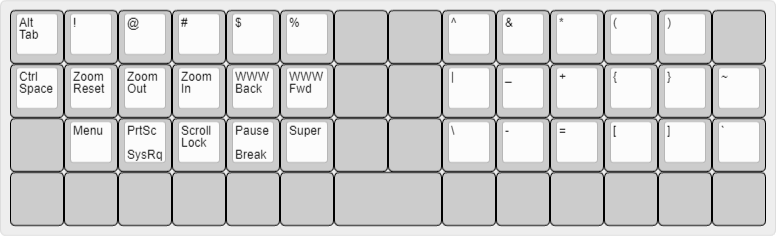
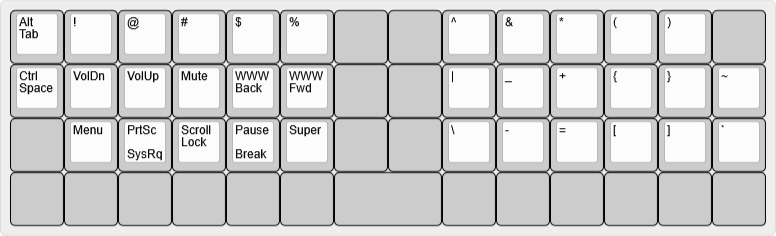
Standardize ergo/ortho volume keys

diff --git a/keyboards/lily58/keymaps/bcat/keymap.c b/keyboards/lily58/keymaps/bcat/keymap.c
@@ -21,7 +21,7 @@ const uint16_t PROGMEM keymaps[][MATRIX_ROWS][MATRIX_COLS] = {
     [LAYER_LOWER] = LAYOUT(
         _______,  _______,  _______,  _______,  _______,  _______,                      _______,  _______,  _______,  _______,  _______,  _______,
         CC_ALTT,  KC_EXLM,  KC_AT,    KC_HASH,  KC_DLR,   KC_PERC,                      KC_CIRC,  KC_AMPR,  KC_ASTR,  KC_LPRN,  KC_RPRN,  _______,
-        KY_CSPC,  KY_ZMRST, KY_ZMOUT, KY_ZMIN,  KC_WBAK,  KC_WFWD,                      KC_PIPE,  KC_UNDS,  KC_PLUS,  KC_LCBR,  KC_RCBR,  KC_TILD,
+        KY_CSPC,  KC_VOLD,  KC_VOLU,  KC_MUTE,  KC_WBAK,  KC_WFWD,                      KC_PIPE,  KC_UNDS,  KC_PLUS,  KC_LCBR,  KC_RCBR,  KC_TILD,
         _______,  KC_APP,   KC_PSCR,  KC_SCRL,  KC_PAUS,  KC_LGUI,  _______,  _______,  KC_BSLS,  KC_MINS,  KC_EQL,   KC_LBRC,  KC_RBRC,  KC_GRV,
                                       _______,  _______,  _______,  _______,  _______,  _______,  _______,  _______
     ),
@@ -34,9 +34,9 @@ const uint16_t PROGMEM keymaps[][MATRIX_ROWS][MATRIX_COLS] = {
     ),
     [LAYER_ADJUST] = LAYOUT(
         _______,  _______,  _______,  _______,  _______,  _______,                      _______,  _______,  _______,  _______,  _______,  _______,
-        _______,  _______,  KC_MPLY,  KC_VOLU,  KC_MSTP,  _______,                      EE_CLR,   QK_BOOT,  _______,  _______,  _______,  _______,
-        _______,  _______,  KC_MPRV,  KC_VOLD,  KC_MNXT,  _______,                      _______,  _______,  _______,  _______,  _______,  _______,
-        _______,  _______,  _______,  KC_MUTE,  _______,  _______,  _______,  _______,  _______,  _______,  _______,  _______,  _______,  _______,
+        _______,  _______,  _______,  _______,  _______,  _______,                      EE_CLR,   QK_BOOT,  _______,  _______,  _______,  _______,
+        _______,  _______,  _______,  _______,  _______,  _______,                      _______,  _______,  _______,  _______,  _______,  _______,
+        _______,  _______,  _______,  _______,  _______,  _______,  _______,  _______,  _______,  _______,  _______,  _______,  _______,  _______,
                                       _______,  _______,  _______,  _______,  _______,  _______,  _______,  _______
     ),
     // clang-format on

diff --git a/keyboards/eco/keymaps/bcat/keymap.c b/keyboards/eco/keymaps/bcat/keymap.c
@@ -15,7 +15,7 @@ const uint16_t PROGMEM keymaps[][MATRIX_ROWS][MATRIX_COLS] = {
     ),
     [LAYER_LOWER] = LAYOUT(
         CC_ALTT,  KC_EXLM,  KC_AT,    KC_HASH,  KC_DLR,   KC_PERC,  _______,  _______,  KC_CIRC,  KC_AMPR,  KC_ASTR,  KC_LPRN,  KC_RPRN,  _______,
-        KY_CSPC,  KY_ZMRST, KY_ZMOUT, KY_ZMIN,  KC_WBAK,  KC_WFWD,  _______,  _______,  KC_PIPE,  KC_UNDS,  KC_PLUS,  KC_LCBR,  KC_RCBR,  KC_TILD,
+        KY_CSPC,  KC_VOLD,  KC_VOLU,  KC_MUTE,  KC_WBAK,  KC_WFWD,  _______,  _______,  KC_PIPE,  KC_UNDS,  KC_PLUS,  KC_LCBR,  KC_RCBR,  KC_TILD,
         _______,  KC_APP,   KC_PSCR,  KC_SCRL,  KC_PAUS,  KC_LGUI,  _______,  _______,  KC_BSLS,  KC_MINS,  KC_EQL,   KC_LBRC,  KC_RBRC,  KC_GRV,
         _______,  _______,  _______,  _______,  _______,  _______,  _______,  _______,  _______,  _______,  _______,  _______,  _______,  _______
     ),
@@ -26,9 +26,9 @@ const uint16_t PROGMEM keymaps[][MATRIX_ROWS][MATRIX_COLS] = {
         _______,  _______,  _______,  _______,  _______,  _______,  _______,  _______,  _______,  _______,  _______,  _______,  _______,  _______
     ),
     [LAYER_ADJUST] = LAYOUT(
-        _______,  _______,  KC_MPLY,  KC_VOLU,  KC_MSTP,  _______,  _______,  _______,  EE_CLR,   QK_BOOT,  _______,  _______,  _______,  _______,
-        _______,  _______,  KC_MPRV,  KC_VOLD,  KC_MNXT,  _______,  _______,  _______,  RGB_RMOD, RGB_VAD,  RGB_VAI,  RGB_MOD,  RGB_SPI,  _______,
-        _______,  _______,  _______,  KC_MUTE,  _______,  _______,  _______,  _______,  RGB_HUI,  RGB_SAD,  RGB_SAI,  RGB_HUD,  RGB_SPD,  _______,
+        _______,  _______,  _______,  _______,  _______,  _______,  _______,  _______,  EE_CLR,   QK_BOOT,  _______,  _______,  _______,  _______,
+        _______,  _______,  _______,  _______,  _______,  _______,  _______,  _______,  RGB_RMOD, RGB_VAD,  RGB_VAI,  RGB_MOD,  RGB_SPI,  _______,
+        _______,  _______,  _______,  _______,  _______,  _______,  _______,  _______,  RGB_HUI,  RGB_SAD,  RGB_SAI,  RGB_HUD,  RGB_SPD,  _______,
         _______,  _______,  _______,  _______,  _______,  _______,  _______,  _______,  RGB_TOG,  _______,  _______,  _______,  _______,  _______
     ),
     // clang-format on

diff --git a/layouts/split_3x6_3/bcat/keymap.c b/layouts/split_3x6_3/bcat/keymap.c
@@ -19,7 +19,7 @@ const uint16_t PROGMEM keymaps[][MATRIX_ROWS][MATRIX_COLS] = {
     ),
     [LAYER_LOWER] = LAYOUT_split_3x6_3(
         CC_ALTT,  KC_EXLM,  KC_AT,    KC_HASH,  KC_DLR,   KC_PERC,                      KC_CIRC,  KC_AMPR,  KC_ASTR,  KC_LPRN,  KC_RPRN,  _______,
-        KY_CSPC,  KY_ZMRST, KY_ZMOUT, KY_ZMIN,  KC_WBAK,  KC_WFWD,                      KC_PIPE,  KC_UNDS,  KC_PLUS,  KC_LCBR,  KC_RCBR,  KC_TILD,
+        KY_CSPC,  KC_VOLD,  KC_VOLU,  KC_MUTE,  KC_WBAK,  KC_WFWD,                      KC_PIPE,  KC_UNDS,  KC_PLUS,  KC_LCBR,  KC_RCBR,  KC_TILD,
         _______,  KC_APP,   KC_PSCR,  KC_SCRL,  KC_PAUS,  KC_LGUI,                      KC_BSLS,  KC_MINS,  KC_EQL,   KC_LBRC,  KC_RBRC,  KC_GRV,
                                                 _______,  _______,  _______,  _______,  _______,  _______
     ),
@@ -30,9 +30,9 @@ const uint16_t PROGMEM keymaps[][MATRIX_ROWS][MATRIX_COLS] = {
                                                 _______,  _______,  _______,  _______,  _______,  _______
     ),
     [LAYER_ADJUST] = LAYOUT_split_3x6_3(
-        _______,  _______,  KC_MPLY,  KC_VOLU,  KC_MSTP,  _______,                      EE_CLR,   QK_BOOT,  _______,  _______,  _______,  _______,
-        _______,  _______,  KC_MPRV,  KC_VOLD,  KC_MNXT,  _______,                      RGB_RMOD, RGB_VAD,  RGB_VAI,  RGB_MOD,  RGB_SPI,  _______,
-        _______,  _______,  _______,  KC_MUTE,  _______,  _______,                      RGB_HUI,  RGB_SAD,  RGB_SAI,  RGB_HUD,  RGB_SPD,  _______,
+        _______,  _______,  _______,  _______,  _______,  _______,                      EE_CLR,   QK_BOOT,  _______,  _______,  _______,  _______,
+        _______,  _______,  _______,  _______,  _______,  _______,                      RGB_RMOD, RGB_VAD,  RGB_VAI,  RGB_MOD,  RGB_SPI,  _______,
+        _______,  _______,  _______,  _______,  _______,  _______,                      RGB_HUI,  RGB_SAD,  RGB_SAI,  RGB_HUD,  RGB_SPD,  _______,
                                                 _______,  _______,  _______,  RGB_TOG,  _______,  _______
     ),
     // clang-format on

diff --git a/keyboards/yanghu/unicorne/keymaps/bcat/keymap.c b/keyboards/yanghu/unicorne/keymaps/bcat/keymap.c
@@ -30,9 +30,9 @@ const uint16_t PROGMEM keymaps[][MATRIX_ROWS][MATRIX_COLS] = {
                                       _______,  _______,  _______,  _______,  _______,  _______,  _______,  _______
     ),
     [LAYER_ADJUST] = LAYOUT(
-        _______,  MU_TOGG,  KC_MPLY,  KC_VOLU,  KC_MSTP,  _______,                      EE_CLR,   QK_BOOT,  _______,  _______,  _______,  _______,
-        _______,  MU_NEXT,  KC_MPRV,  KC_VOLD,  KC_MNXT,  _______,                      RGB_RMOD, RGB_VAD,  RGB_VAI,  RGB_MOD,  RGB_SPI,  _______,
-        _______,  _______,  _______,  KC_MUTE,  _______,  _______,                      RGB_HUI,  RGB_SAD,  RGB_SAI,  RGB_HUD,  RGB_SPD,  _______,
+        _______,  MU_TOGG,  _______,  _______,  _______,  _______,                      EE_CLR,   QK_BOOT,  _______,  _______,  _______,  _______,
+        _______,  MU_NEXT,  _______,  _______,  _______,  _______,                      RGB_RMOD, RGB_VAD,  RGB_VAI,  RGB_MOD,  RGB_SPI,  _______,
+        _______,  _______,  _______,  _______,  _______,  _______,                      RGB_HUI,  RGB_SAD,  RGB_SAI,  RGB_HUD,  RGB_SPD,  _______,
                                       _______,  _______,  _______,  _______,  RGB_TOG,  _______,  _______,  _______
     ),
     // clang-format on

diff --git a/layouts/split_3x6_3/bcat/readme.md b/layouts/split_3x6_3/bcat/readme.md
@@ -66,8 +66,7 @@ principles described below.
   layout. And yup, the shifted versions are above the unshifted versions.
 * Remaining keys from a TKL are placed out of the way on the bottom row of the
   left half.
-* The home row on the left half contains handy shortcuts for zooming and browser
-  navigation.
+* The home row on the left half contains volume and browser navigation hotkeys.
 * Lower+Esc is bound to Ctrl+Space because the Ctrl and Space keys are both on
   the left thumb, so this key combination (which I use for tmux prefix and
   editor autocomplete) is hard to press in its natural location.
@@ -106,10 +105,8 @@ principles described below.
 <details>
 <summary>Adjust layer notes</summary>
 
-* Media keys are centered around the ESDF cluster, just like I arrange them on
-  row-staggered keyboards. (It's even more sensible with columnar stagger.)
-* The navigation keys are replaced by RGB controls. Again, this mirrors the
-  positioning I use on my row-staggered keyboards.
-* Finally, reset keys live at the top-left corner of the right half where it's
+* Reset keys live at the top-left corner of the right half where it's
   reasonably hard to press them by accident.
+* Navigation keys are replaced by RGB controls. This mirrors the positioning I
+  use on my row-staggered keyboards.
 </details>
